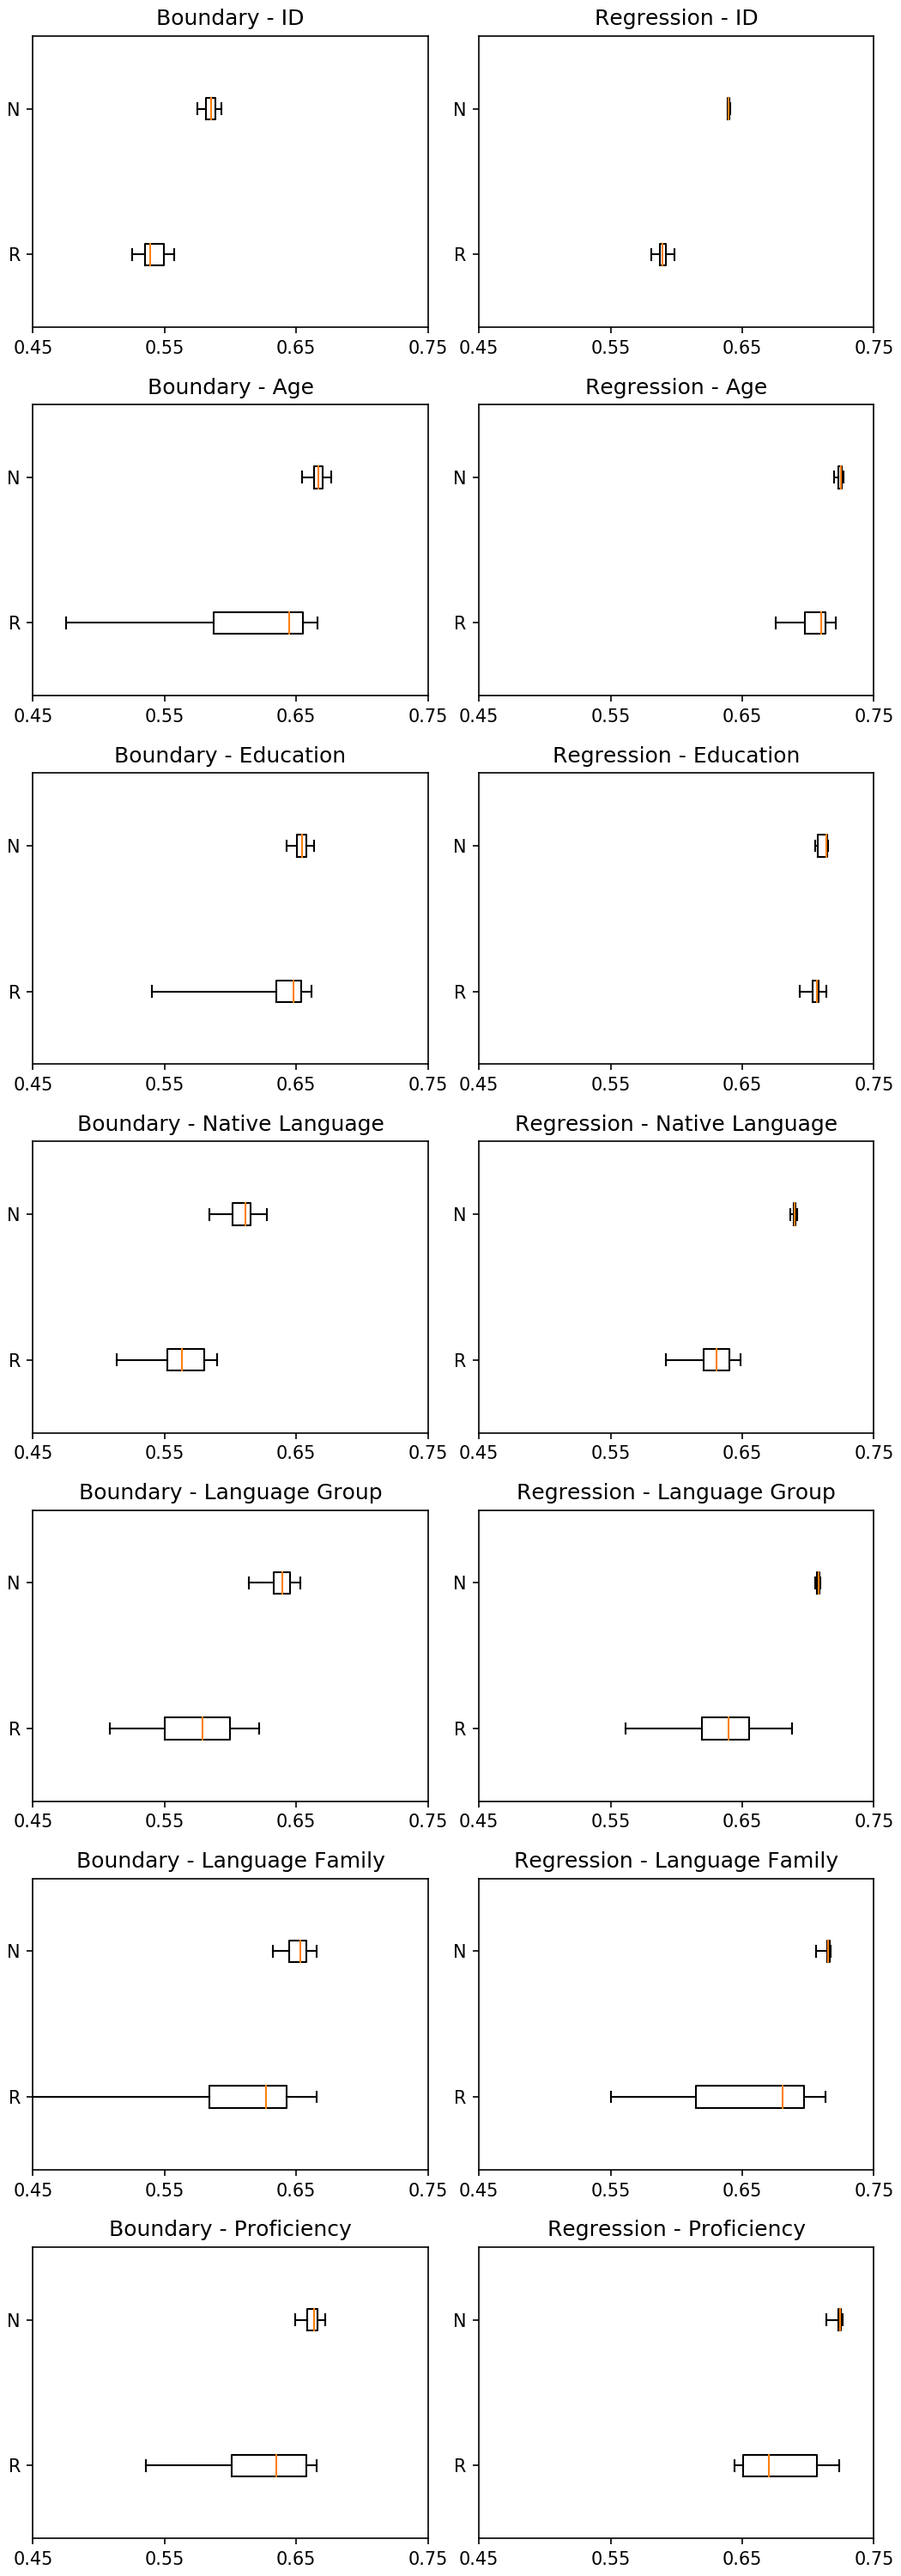
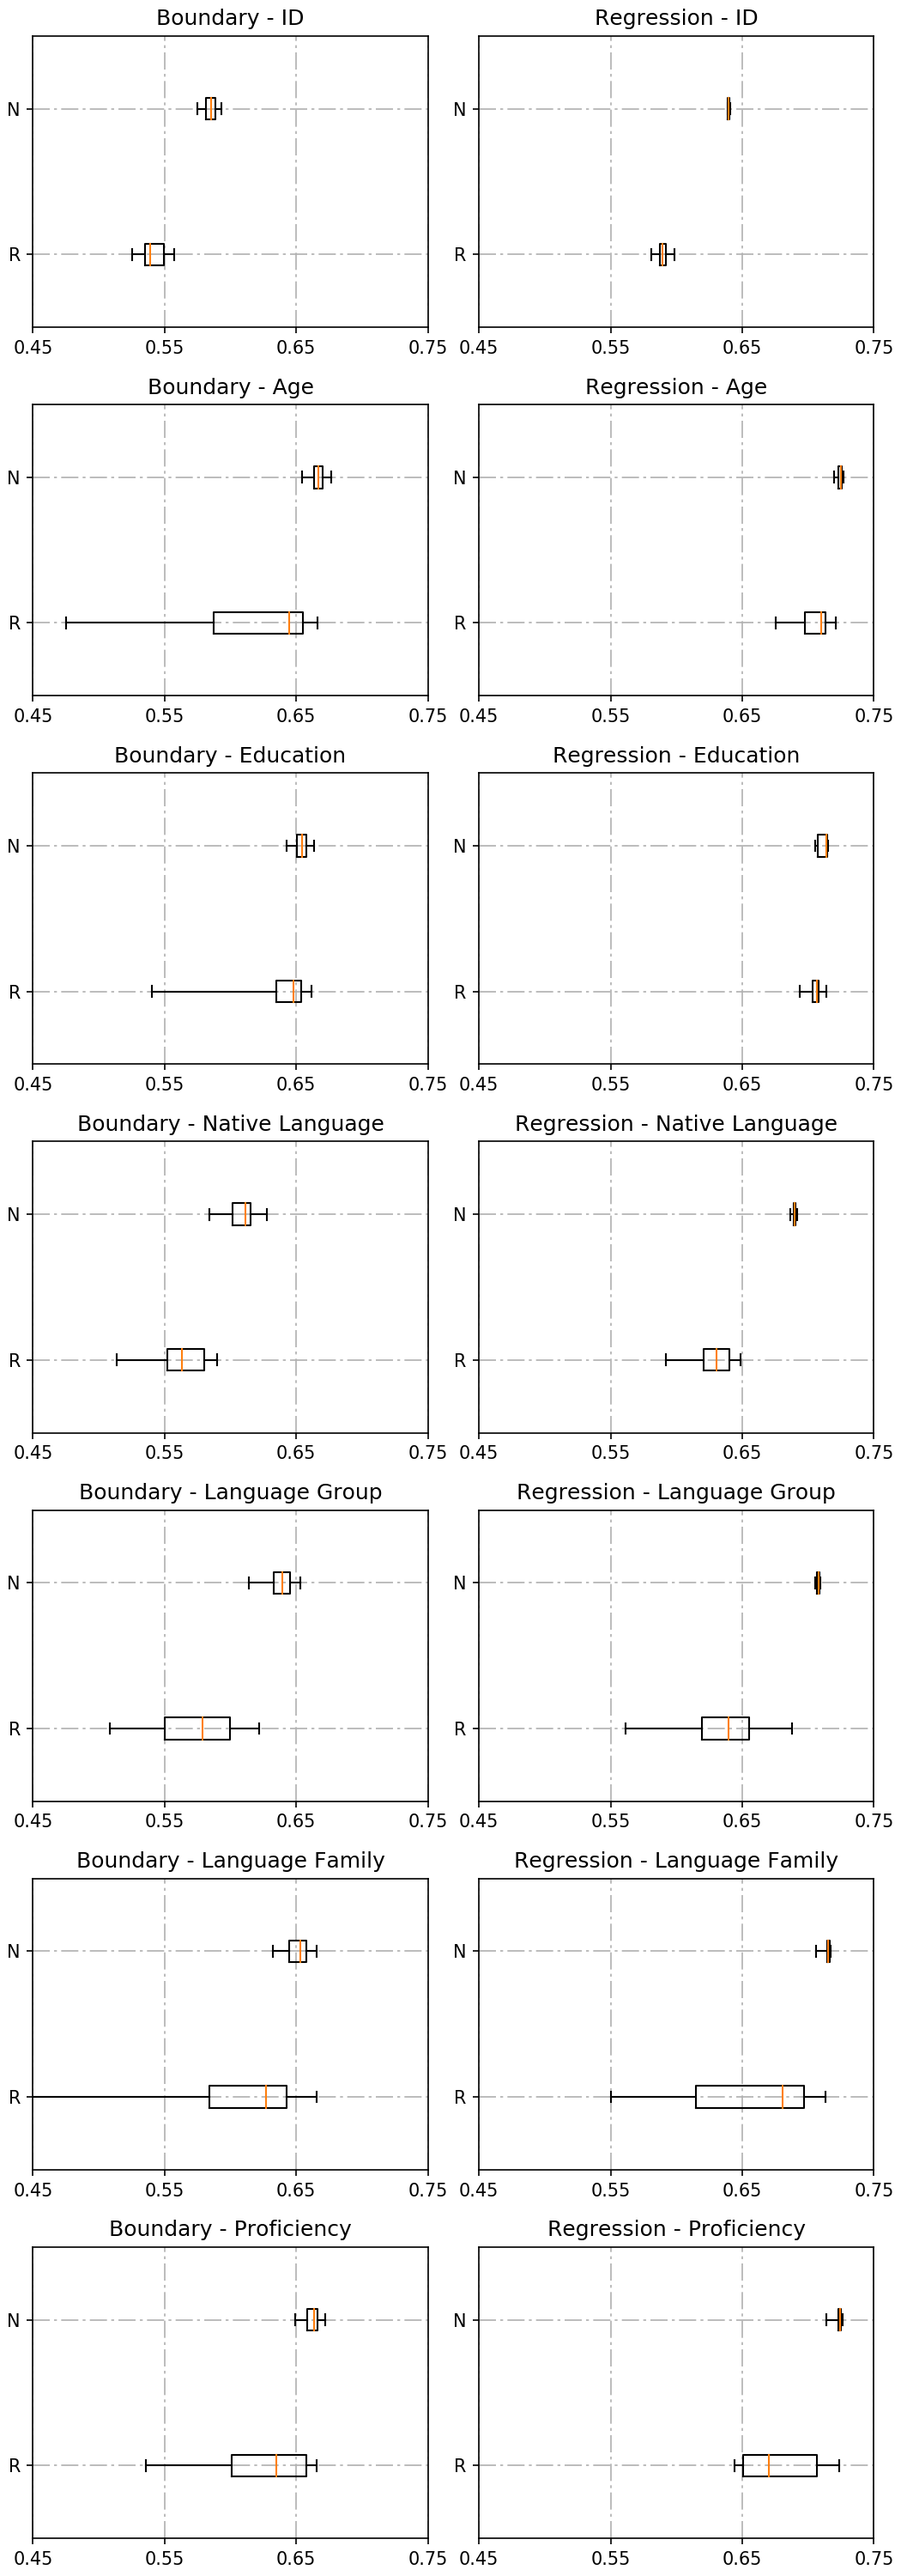
...

diff --git a/scripts/auxiliary/surveymonkey/generate_replacement_graphs.py b/scripts/auxiliary/surveymonkey/generate_replacement_graphs.py
@@ -1,0 +1,96 @@
+import matplotlib.pyplot as plt
+import os, numpy, scipy
+
+def produceMap(path):
+	map = {}
+	files = os.listdir(path)
+	for file in files:
+		info = file.strip().split('_')
+		ranker = info[0]
+		dataset = info[1]
+		group = info[2]
+		prop = info[3]
+		if ranker not in map:
+			map[ranker] = {}
+		if group not in map[ranker]:
+			map[ranker][group] = {}
+		map[ranker][group][prop] = []
+		f = open(path+'/'+file)
+		for line in f:
+			data = line.strip().split('\t')
+			index = int(data[0])
+			score = float(data[1])
+			map[ranker][group][prop].append([index, score])
+	return map
+	
+def getBaselineMap(path):
+	map = {}
+	files = os.listdir(path)
+	for file in files:
+		info = file.strip()
+		info = info[:len(info)-4].split('_')
+		dataset = info[0]
+		ranker = info[1]
+		if dataset not in map:
+			map[dataset] = {}
+		f = open(path+'/'+file)
+		scores = [float(v) for v in f.readline().strip().split('\t')]
+		f.close()
+		map[dataset][ranker] = scores
+	return map
+
+def getDatasetSizes():
+	map = {}
+	map['benchls'] = 929
+	map['nnseval'] = 239
+	map['semeval'] = 2010
+	return map
+
+names = {}
+names['benchls'] = 'BenchLS'
+names['semeval'] = 'SemEval'
+names['boundary'] = 'Boundary'
+names['ridge'] = 'Regression'
+names['mlp'] = 'Regression'
+names['normal'] = 'Baseline'
+names['individual'] = 'ID'
+names['group-age'] = 'Age'
+names['group-edu'] = 'Education'
+names['group-lang'] = 'Native Language'
+names['group-langg'] = 'Language Group'
+names['group-langgg'] = 'Language Family'
+names['group-prof'] = 'Proficiency'
+
+performancesf = '../../../corpora/adaptive/replacement_accuracy/surveymonkey/'
+map = produceMap(performancesf)
+baselinesf = '../../../corpora/baselines'
+#base = getBaselineMap(baselinesf)
+#sizes = getDatasetSizes()
+
+allgroups = ['normal','individual','group-age','group-edu', 'group-lang', 'group-langg', 'group-langgg', 'group-prof']
+
+#Create figure
+fig, axes = plt.subplots(len(map['ridge']), len(map),figsize=(14,20))
+for i, group in enumerate(allgroups):
+	yvalues = []
+	for j, ranker in enumerate(['boundary','ridge']):
+	#for j, ranker in enumerate(['ridge']):
+		colors = [(c, c, c) for c in [v/100.0 for v in range(5, 50, 5)]]
+		#fig.suptitle('Comparison between Boundary and Neural rankers')
+#		for prop in ['0.2', '0.4', '0.6', '0.8']:
+		for prop in map[ranker][group]:
+			seq = map[ranker][group][prop]
+			x = [value[0] for value in seq]
+			y = [value[1] for value in seq]
+			yvalues.extend(y)
+			axes[i][j].plot(x, y, color=colors.pop())
+			axes[i][j].title.set_text(names[ranker]+' - '+names[group])
+			axes[i][j].set_ylim([0.05,0.35])
+			axes[i][j].set_yticks([0.05, 0.15, 0.25, 0.35])
+
+#plt.tight_layout()
+plt.tight_layout(pad=0.4, w_pad=0.8, h_pad=1.0)
+#plt.savefig('customized_results.png', dpi=150)
+plt.savefig('replacement_accuracy_results.png', dpi=300, bbox_inches='tight')
+plt.show()
+plt.close()

diff --git a/scripts/auxiliary/surveymonkey/generate_randomvsproper_graphs.py b/scripts/auxiliary/surveymonkey/generate_randomvsproper_graphs.py
@@ -56,7 +56,7 @@ for i, group in enumerate(allgroups):
 			axes[i][j].title.set_text(names[ranker]+' - '+names[group])
 			axes[i][j].set_xlim([0.45,0.75])
 			axes[i][j].set_xticks([0.45, 0.55, 0.65, 0.75])
-			
+			axes[i][j].grid(linestyle='-.')
 plt.setp(axes, yticks=[1, 2], yticklabels=['R', 'N'])
 		
 #plt.tight_layout()
